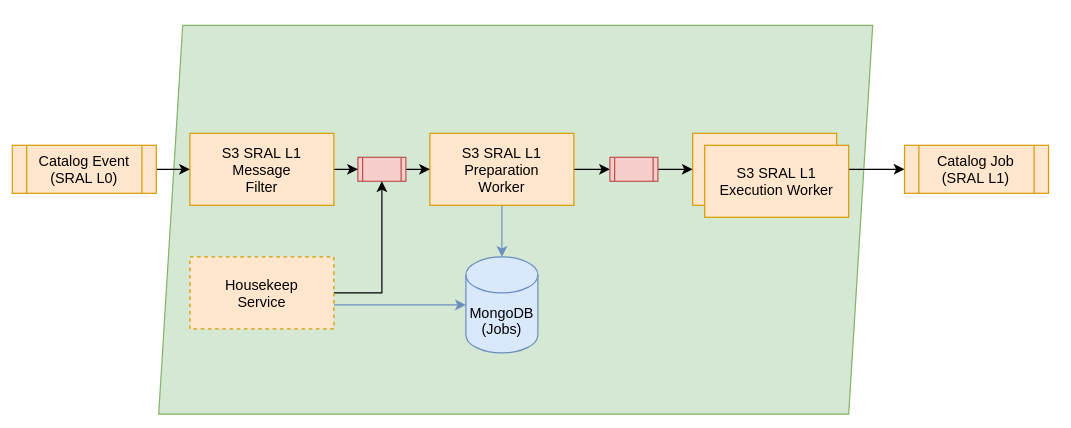
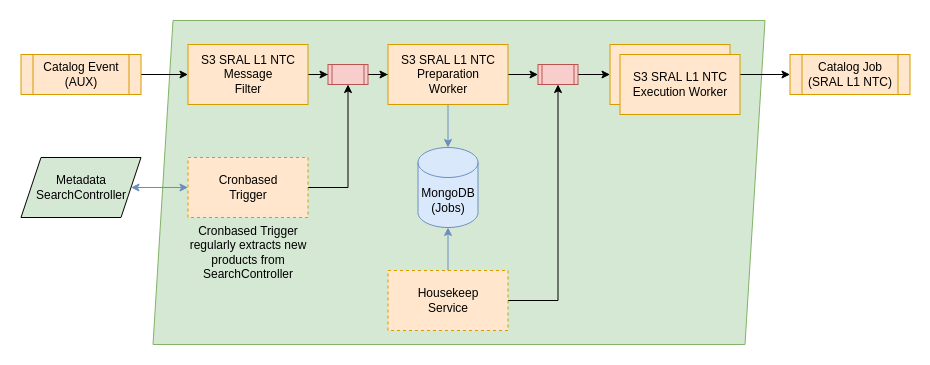
RS-XX: Update overviews for all NTC-chains

diff --git a/s3-sy2-vgs-ntc/doc/ReleaseNote.md b/s3-sy2-vgs-ntc/doc/ReleaseNote.md
@@ -14,6 +14,8 @@ This add-on contains the configuration for the processing chain of the Sentinel-
 
 ## Overview
 
+![overview](./media/overview.png "Overview")
+
 The chain will start from the topic catalog event and watching out for new products there. The message filter will ensure that just suitable products for this chain and related auxiliary files are consumed by the chain. All other product types will be discard and no processing occurs. 
 
 If the production is not ready yet the request will be persisted and discarded. Once a new relevant product for the chain arrives, it will check again if all required input products are available.
